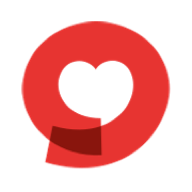
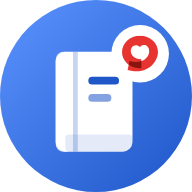
홈 화면 아이콘 교체: 파란 책 + 공단 하트 배지
Claude-Session: https://claude.ai/code/session_01RKJ29KTGMJFoSzoMzoJ3t3

diff --git a/index.html b/index.html
@@ -11,9 +11,9 @@
     <meta name="apple-mobile-web-app-title" content="장기요양 길잡이">
     <title>장기요양급여 이용 안내</title>
 
-    <link rel="manifest" href="manifest.webmanifest?v=20261019-install">
+    <link rel="manifest" href="manifest.webmanifest?v=20261103-icon">
     <script src="app-install.js?v=20261103-qrtext2"></script>
-    <link rel="apple-touch-icon" sizes="180x180" href="apple-touch-icon.png?v=20261015">
+    <link rel="apple-touch-icon" sizes="180x180" href="apple-touch-icon.png?v=20261103">
     <link rel="stylesheet" href="fonts/pretendard-subset.css">
     <script src="assets/vendor/lucide-lite.js?v=20261021"></script>
     <link rel="stylesheet" href="style.css">
@@ -109,8 +109,8 @@
     <script src="reviewed-content.js?v=20261020-visit"></script>
     <script src="search-aliases.js"></script>
     <script src="app-config.js?v=20261015-2"></script>
-    <script src="update-log.js?v=20261103-b"></script>
-    <script src="app.js?v=20261021-usageback"></script>
+    <script src="update-log.js?v=20261103-icon"></script>
+    <script src="app.js?v=20261103-icon"></script>
     <script src="traffic.js?v=20261021-meta"></script>
 </body>
 </html>

diff --git a/update-log.js b/update-log.js
@@ -12,7 +12,10 @@
 window.APP_LAST_UPDATED = '2026-11-03';
 
 window.APP_UPDATES = [
-    { date: '2026-11-03', title: '작은 불편을 고치고 화면을 다듬었어요', items: [] },
+    { date: '2026-11-03', title: '홈 화면 아이콘이 새로 바뀌었어요', items: [
+        '파란 책 모양에 공단 하트가 달린 아이콘이에요.',
+        '이미 홈 화면에 추가해 두셨다면, 지우고 다시 추가하면 새 아이콘이 보여요.'
+    ] },
     { date: '2026-10-21', title: '화면이 더 빨리 열려요', items: [
         '데이터를 적게 써서 화면이 더 빨리 열려요.',
         '홈 화면 제목을 더 크고 또렷하게 바꿨어요.',

diff --git a/app.js b/app.js
@@ -1,7 +1,7 @@
 const favicon = document.createElement('link');
 favicon.rel = 'icon';
 favicon.type = 'image/svg+xml';
-favicon.href = 'nhis-symbol.svg';
+favicon.href = 'app-icon.svg?v=20261103';
 document.head.appendChild(favicon);
 
 document.addEventListener('DOMContentLoaded', () => {
